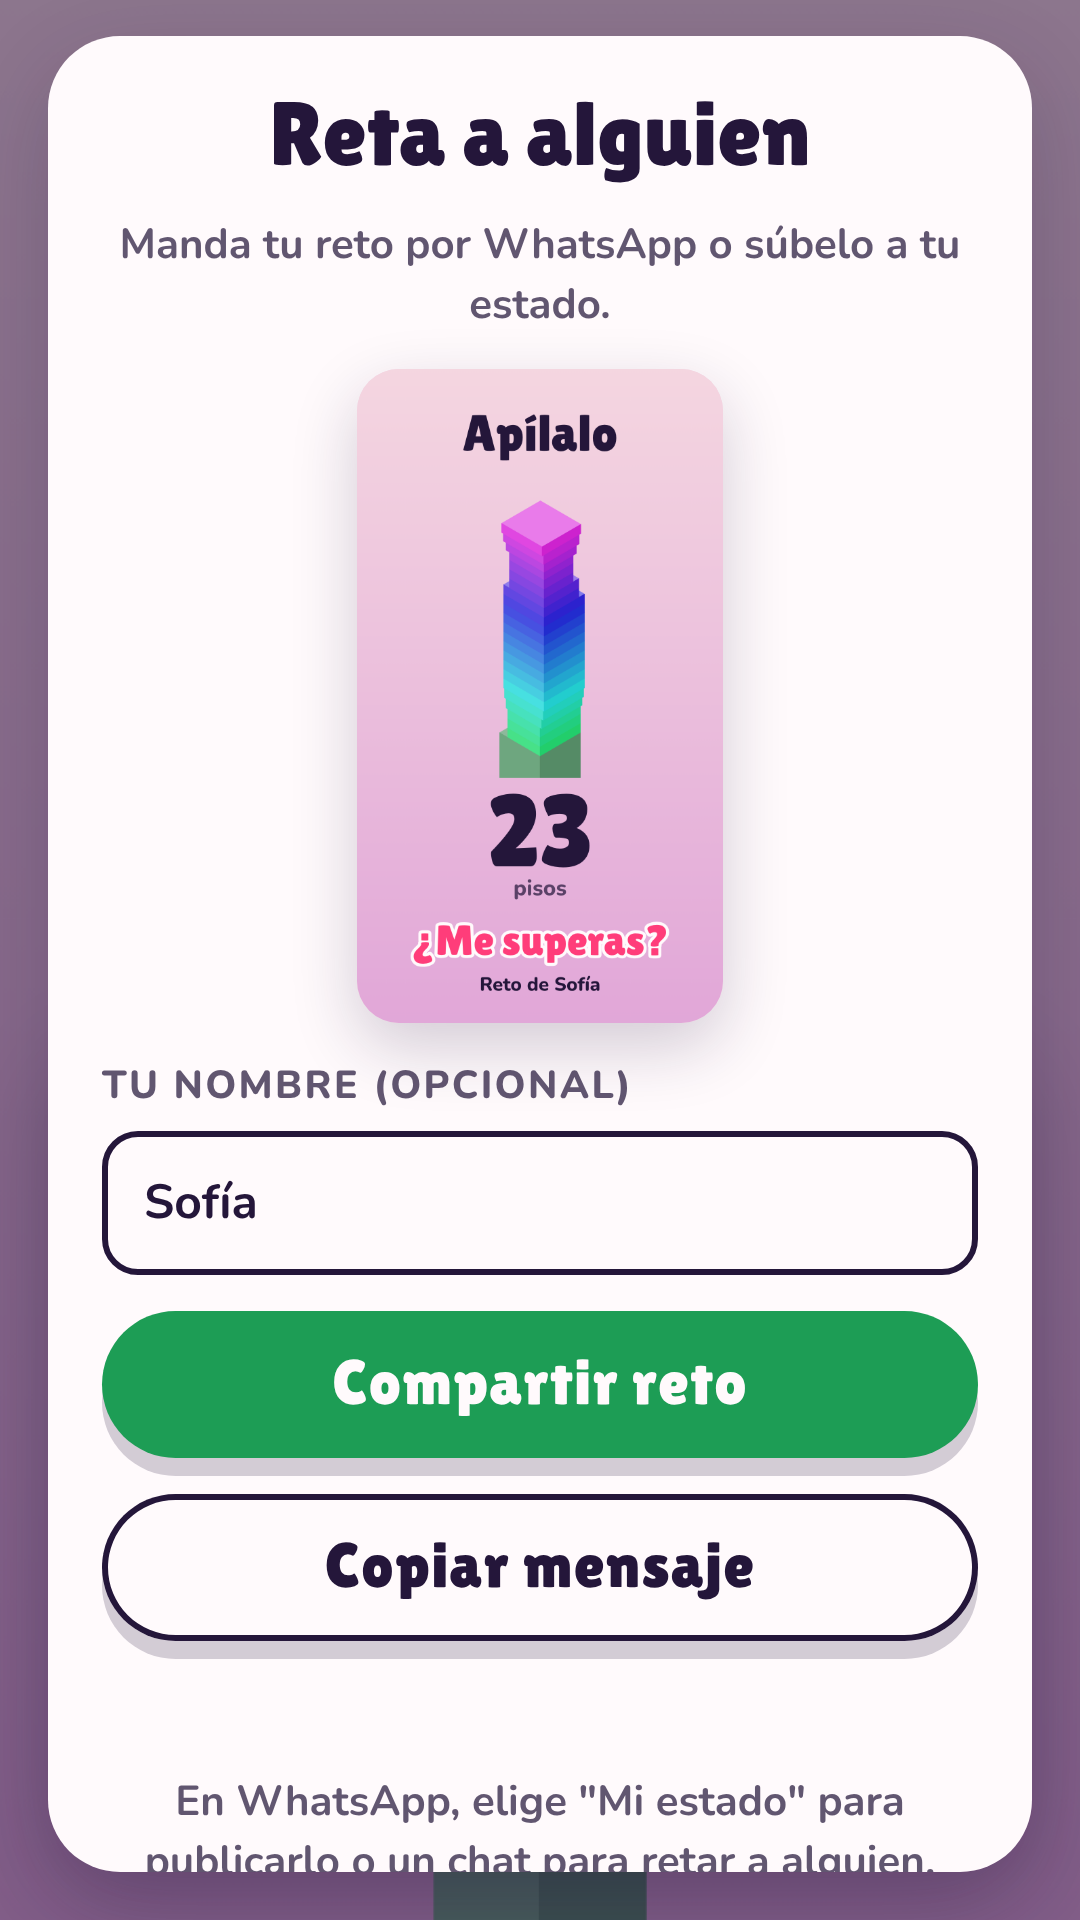
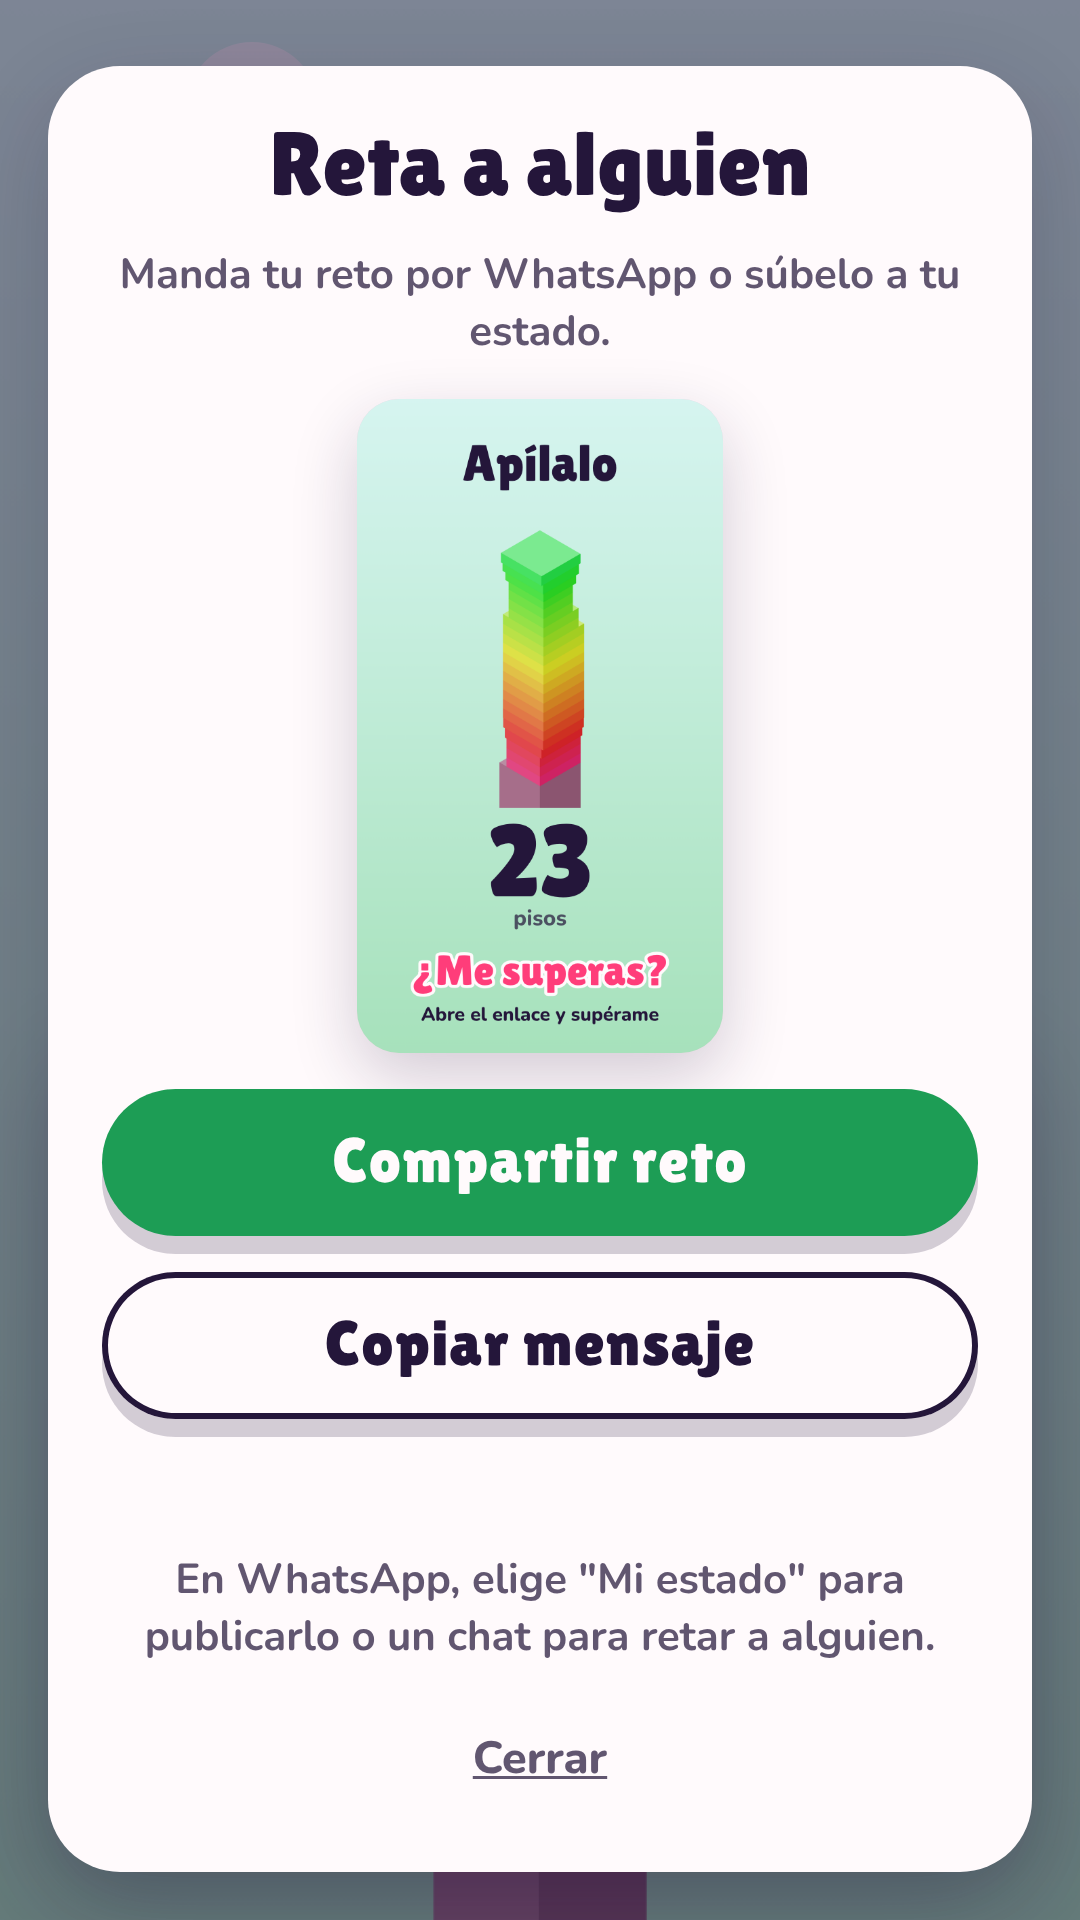
Disable player name and add in-app privacy link

diff --git a/public/privacy.html b/public/privacy.html
@@ -33,7 +33,7 @@
   <main>
     <article>
       <h1>Aviso de privacidad de Apílalo</h1>
-      <p class="meta">Última actualización: 18 de octubre de 2026</p>
+      <p class="meta">Última actualización: 27 de octubre de 2026</p>
 
       <p class="summary">En resumen: Apílalo no recopila, no envía y no vende datos personales. No tiene cuentas, anuncios ni herramientas de análisis.</p>
 
@@ -43,20 +43,19 @@
       <h2>Qué se guarda y dónde</h2>
       <p>El juego guarda solo en tu dispositivo:</p>
       <ul>
-        <li>tu mejor puntuación (récord),</li>
-        <li>si el sonido está activado o no,</li>
-        <li>el nombre que escribas para tus retos, si decides escribir uno.</li>
+        <li>tu mejor puntuación (récord) y</li>
+        <li>si el sonido está activado o no.</li>
       </ul>
       <p>Esta información no sale de tu dispositivo y nadie más tiene acceso a ella. Puedes borrarla cuando quieras desinstalando la app o borrando sus datos desde los ajustes del teléfono.</p>
 
       <h2>Cuando compartes un reto</h2>
-      <p>Si tocas «Compartir reto», el juego prepara una imagen y un mensaje con tu puntuación y un enlace. Tú eliges con qué app compartirlo (por ejemplo, WhatsApp). Lo que compartes sale de tu dispositivo solo porque tú lo envías, y a partir de ahí aplica el aviso de privacidad de esa app. Tu nombre aparece en el reto únicamente si lo escribiste.</p>
+      <p>Si tocas «Compartir reto», el juego prepara una imagen y un mensaje con tu puntuación y un enlace. Tú eliges con qué app compartirlo (por ejemplo, WhatsApp). Lo que compartes sale de tu dispositivo solo porque tú lo envías, y a partir de ahí aplica el aviso de privacidad de esa app. El reto no incluye tu nombre ni ningún otro dato personal.</p>
 
       <h2>Conexión a internet</h2>
       <p>La app no se conecta a ningún servidor propio ni de terceros para funcionar. Las fuentes y los sonidos vienen incluidos en la app.</p>
 
       <h2>Versión web</h2>
-      <p>La versión para navegador está alojada en GitHub Pages. Como cualquier sitio web, el servicio de alojamiento puede registrar datos técnicos de la visita, como la dirección IP, conforme a su propia declaración de privacidad (GitHub General Privacy Statement). Los datos del reto (puntuación y nombre) viajan en la parte del enlace que va después del símbolo «#», que el navegador no envía al servidor.</p>
+      <p>La versión para navegador está alojada en GitHub Pages. Como cualquier sitio web, el servicio de alojamiento puede registrar datos técnicos de la visita, como la dirección IP, conforme a su propia declaración de privacidad (GitHub General Privacy Statement). La puntuación del reto viaja en la parte del enlace que va después del símbolo «#», que el navegador no envía al servidor.</p>
 
       <h2>Niñas, niños y adolescentes</h2>
       <p>El juego es apto para todas las edades. No pedimos ni recopilamos datos personales de ninguna persona, incluidas las menores de 13 años.</p>

diff --git a/src/main.js b/src/main.js
@@ -10,7 +10,7 @@ import {
 } from './challenge.js';
 import { canvasToBlob, renderShareCard } from './share-card.js';
 import { canShareImage, haptic, isNative, onBackButton, shareImage, storage } from './platform.js';
-import { ALLOW_PLAYER_NAME, PLAY_URL, PUBLIC_URL } from './config.js';
+import { ALLOW_PLAYER_NAME, PLAY_URL, PRIVACY_URL, PUBLIC_URL } from './config.js';
 
 const MILESTONES = { 10: '¡10 pisos!', 25: '¡Imparable!', 50: '¡Medio centenar!', 75: '¡Leyenda!', 100: '¡100! ¿En serio?' };
 const KEYS = { best: 'apilalo.best', muted: 'apilalo.muted', name: 'apilalo.name' };
@@ -20,7 +20,7 @@ const el = {
   stage: $('stage'), canvas: $('cv'), intro: $('intro'), over: $('over'), scoreBox: $('scoreBox'),
   scoreNum: $('scoreNum'), streak: $('streak'), bestHud: $('bestHud'), pop: $('pop'), hint: $('hint'),
   finalNum: $('finalNum'), finalUnit: $('finalUnit'), newRecord: $('newRecord'), stats: $('stats'),
-  introBest: $('introBest'), introChallenge: $('introChallenge'), playStoreLink: $('playStoreLink'),
+  introBest: $('introBest'), introChallenge: $('introChallenge'), playStoreLink: $('playStoreLink'), privacyLink: $('privacyLink'),
   challengeResult: $('challengeResult'), mute: $('muteBtn'), icoOn: $('icoOn'), icoOff: $('icoOff'),
   play: $('playBtn'), again: $('againBtn'), challengeBtn: $('challengeBtn'),
   share: $('share'), cardPreview: $('cardPreview'), nameField: $('nameField'), nameInput: $('nameInput'),
@@ -189,6 +189,7 @@ function renderIntro() {
     el.playStoreLink.href = PLAY_URL;
     el.playStoreLink.hidden = false;
   }
+  el.privacyLink.href = PRIVACY_URL;
 }
 
 function renderMute() {
@@ -385,7 +386,8 @@ async function boot() {
   ]);
   best = parseInt(savedBest, 10) || 0;
   sfx.muted = savedMuted === '1';
-  el.nameInput.value = savedName || '';
+  el.nameInput.value = ALLOW_PLAYER_NAME ? savedName || '' : '';
+  if (!ALLOW_PLAYER_NAME && savedName) storage.set(KEYS.name, '');
   renderIntro();
   renderMute();
 }

diff --git a/src/styles.css b/src/styles.css
@@ -140,6 +140,7 @@ button:focus-visible, a:focus-visible, input:focus-visible { outline: 3px solid 
 .stats { font-size: 14px; font-weight: 700; color: var(--ink-soft); font-variant-numeric: tabular-nums; }
 .small-note { font-size: 13px; font-weight: 700; color: var(--ink-soft); }
 .store-link { font-size: 15px; font-weight: 800; color: var(--ink); }
+.legal-link { font-size: 12px; font-weight: 700; color: var(--ink-soft); text-underline-offset: 3px; padding: 6px 10px; }
 
 /* ---------- Share sheet (outside the stage so typing and scrolling work) ---------- */
 #share {

diff --git a/src/config.js b/src/config.js
@@ -14,3 +14,10 @@ export const PLAY_URL = env.VITE_PLAY_URL || '';
  * VITE_ALLOW_PLAYER_NAME=false if you want the app to ask for nothing at all.
  */
 export const ALLOW_PLAYER_NAME = env.VITE_ALLOW_PLAYER_NAME !== 'false';
+
+/**
+ * Privacy policy. Google Play requires a link inside the app as well as in the
+ * listing. The app opens the public copy (system browser); the web version
+ * falls back to the bundled page when PUBLIC_URL is not set.
+ */
+export const PRIVACY_URL = PUBLIC_URL ? new URL('privacy.html', PUBLIC_URL).href : 'privacy.html';

diff --git a/index.html b/index.html
@@ -28,6 +28,7 @@
           <button class="play" id="playBtn" type="button">Jugar</button>
           <div class="small-note" id="introBest"></div>
           <a class="store-link" id="playStoreLink" href="#" target="_blank" rel="noopener" hidden>Descárgalo en Google Play</a>
+          <a class="legal-link" id="privacyLink" href="privacy.html" target="_blank" rel="noopener">Aviso de privacidad</a>
         </div>
       </div>
     </div>

diff --git a/store/ficha-play.md b/store/ficha-play.md
@@ -46,6 +46,6 @@ Verifícalas contra lo que pide cada pregunta al momento de llenarlas.
 
 - **Anuncios:** la app no contiene anuncios.
 - **Acceso a la app:** toda la funcionalidad está disponible sin restricciones (no hay inicio de sesión).
-- **Seguridad de los datos:** la app no recopila ni comparte datos. Récord, sonido y nombre se guardan solo en el dispositivo; lo que el usuario comparte lo envía él mismo con la app que elige.
+- **Seguridad de los datos:** la app no recopila ni comparte datos. Récord y sonido se guardan solo en el dispositivo; la app no pide nombre ni ningún otro dato; lo que el usuario comparte lo envía él mismo con la app que elige.
 - **Clasificación de contenido:** sin violencia, lenguaje, apuestas ni interacción entre usuarios dentro de la app.
-- **Público objetivo:** si niñas o niños menores de 13 años van a jugarla (y el estilo visual les atrae), declara esos rangos de edad. Así aplica la política de Familias; con esta versión sin anuncios y sin datos, cumplirla es sencillo. Si quieres que la app no pida ningún dato, compila con `VITE_ALLOW_PLAYER_NAME=false`.
+- **Público objetivo (declarado):** 9-12, 13-15, 16-17 y 18+. Aplica la política de Familias; la app no tiene anuncios, no pide datos (el campo de nombre está apagado con `VITE_ALLOW_PLAYER_NAME=false`) y la ficha muestra el compromiso con Familias. No se inscribió en *Aprobado por profesores*.

diff --git a/README.md b/README.md
@@ -112,7 +112,9 @@ Con la URL configurada, WhatsApp muestra una vista previa con la imagen `public/
 
 Si van a jugarla menores de 13 años, declara esos rangos de edad. Así aplica la política de Familias de Google Play. Esta versión no tiene anuncios, no usa internet y no envía datos, así que cumplir es sencillo. Si después quieres poner anuncios, solo puedes usar SDKs certificados para Familias y sin anuncios personalizados.
 
-El campo "Tu nombre" es opcional y el nombre nunca sale del teléfono, salvo en el mensaje que el jugador decide enviar. Si prefieres que la app no pida ningún dato, compila con `VITE_ALLOW_PLAYER_NAME=false` en `.env`.
+El campo "Tu nombre" está **apagado** (`VITE_ALLOW_PLAYER_NAME=false` en `.env`): Familias pide la intervención de un adulto antes de que un menor comparta datos personales, y así la app no pide ninguno. El código sigue ahí por si una app futura para mayores lo necesita.
+
+El aviso de privacidad también está **dentro de la app** (enlace en la pantalla de inicio), como exige Play.
 
 ## Lo que no se probó al preparar este proyecto
 
